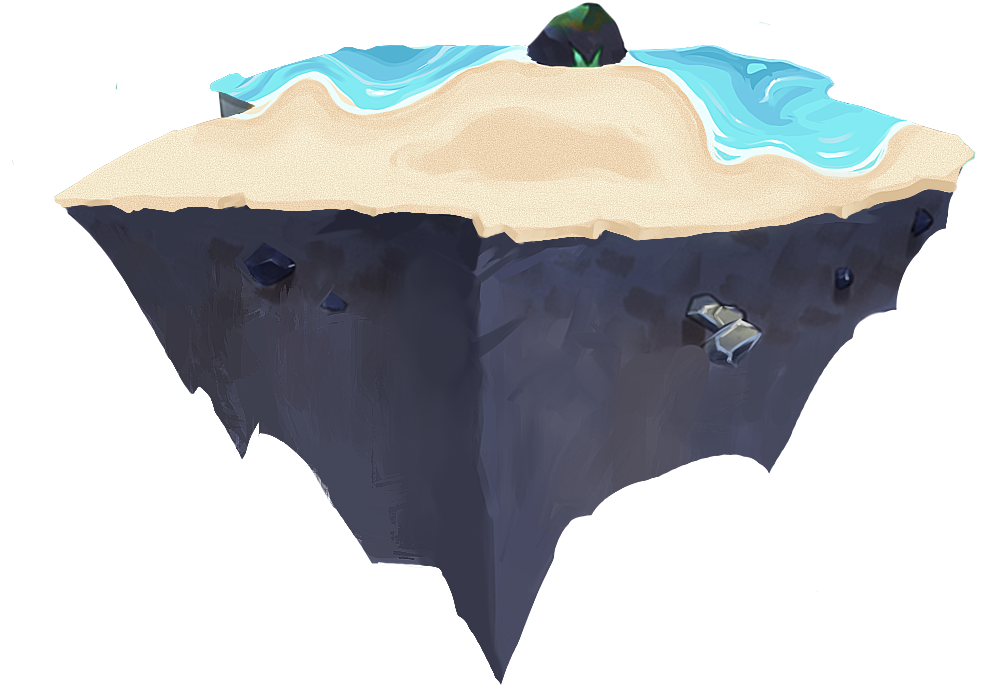
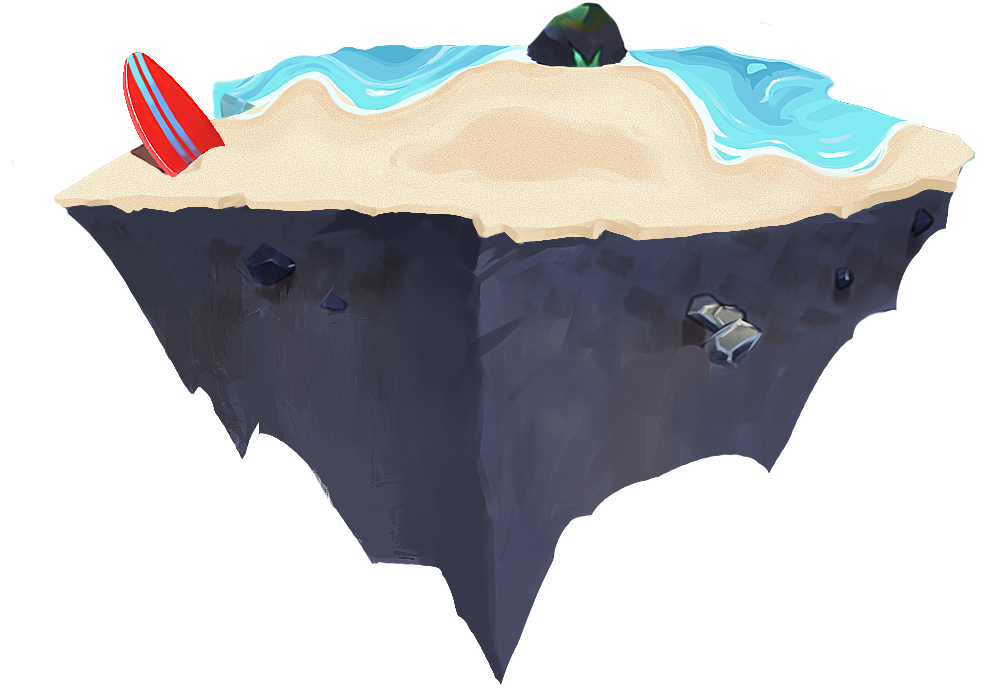
Testing image quality of Pokemon.js

Changed region(s): [[0.124, 0.0603, 0.248, 0.2716], [0.279, 0.0603, 0.31, 0.0905]]

diff --git a/src/components/Dashboard.js b/src/components/Dashboard.js
@@ -155,7 +155,7 @@ class Dashboard extends Component {
           break;
         case 'water':
           {
-            tableResult = 'https://i.ibb.co/hZLKDQW/Turtable-beach.png';
+            tableResult = 'https://i.ibb.co/Y24KNd5/Turtable-beach.png';
           }
           break;
         case 'normal':
@@ -195,7 +195,7 @@ class Dashboard extends Component {
           break;
         case 'psychic':
           {
-            tableResult = 'https://i.ibb.co/FsYbFB7/Turtable.png';
+            tableResult = 'https://i.ibb.co/nzMhTnr/Turtable-dark.png';
           }
           break;
         case 'rock':
@@ -210,7 +210,7 @@ class Dashboard extends Component {
           break;
         case 'ghost':
           {
-            tableResult = 'https://i.ibb.co/FsYbFB7/Turtable.png';
+            tableResult = 'https://i.ibb.co/nzMhTnr/Turtable-dark.png';
           }
           break;
         case 'ice':
@@ -225,12 +225,12 @@ class Dashboard extends Component {
           break;
         case 'dark':
           {
-            tableResult = 'https://i.ibb.co/FsYbFB7/Turtable.png';
+            tableResult = 'https://i.ibb.co/nzMhTnr/Turtable-dark.png';
           }
           break;
         case 'flying':
           {
-            tableResult = 'https://i.ibb.co/FsYbFB7/Turtable.png';
+            tableResult = 'https://i.ibb.co/CHWTLvq/Turtable-sky.png';
           }
           break;
         case 'steel': {

diff --git a/src/components/Pokemon.js b/src/components/Pokemon.js
@@ -1,4 +1,5 @@
 import React from 'react';
+import { Image, Transformation } from 'cloudinary-react';
 
 const Pokemon = ({ poke, addDefaultSrc }) => {
   return (
@@ -9,14 +10,20 @@ const Pokemon = ({ poke, addDefaultSrc }) => {
         {' '}
         Type: {poke.type1} {poke.type2}{' '}
       </h6>
-      <img
+      <Image
+        cloudName='kingmuze'
+        publicId={'fl_lossy/Pokemon_Gifs/' + `${poke.name}.gif`}
+        className='home-pokemon'
+        onError={addDefaultSrc}
+      />
+      {/* <img
         src={`https://res.cloudinary.com/kingmuze/image/upload/v1552282722/Pokemon_Gifs/${
           poke.name
         }.gif`}
         alt='pokemon'
         className='home-pokemon'
         onError={addDefaultSrc}
-      />
+      /> */}
     </div>
   );
 };
